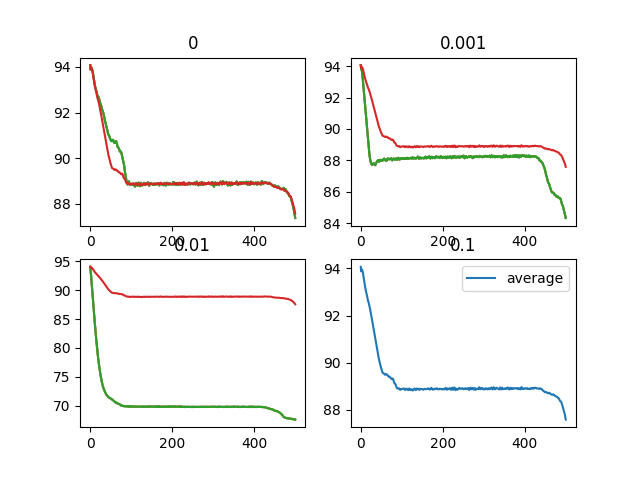
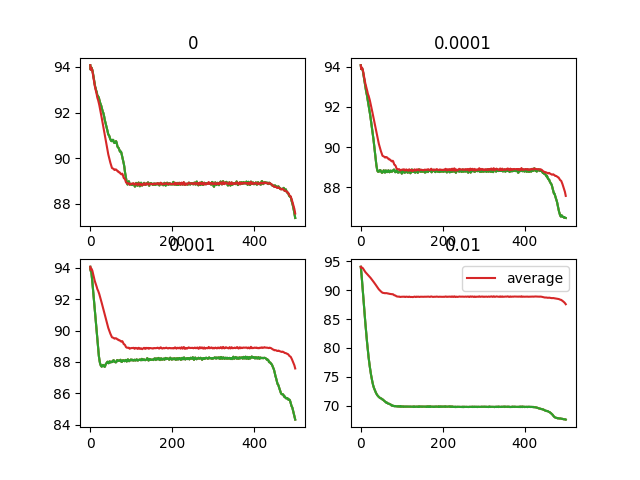
plot update

diff --git a/python/post/max_z.py b/python/post/max_z.py
@@ -2,6 +2,7 @@ import pandas as pd
 from ovito.io import *
 import re
 from ovito.modifiers import *
+import numpy
 import numpy as np
 import matplotlib.pyplot as plt
 from glob import glob
@@ -14,7 +15,7 @@ def max_z_finder(asperities, uc, temp, time, initnum):
     highz_dir = '../../txt/high_z/'
     max_zs = []
     avg_max = []
-    for force in [0, 0.001, 0.01, 0.1]:
+    for force in [0, 0.0001, 0.001, 0.01]:
         dumpfiles = f'../../simulations/sys_asp{asperities}_uc{uc}/production/sim_temp{temp}_force{force}_asp{asperities}_time{time}_initnum{initnum}_seed*_errgrid4_4/dump.bin'
         for dumpfile in glob(dumpfiles):
 
@@ -32,7 +33,7 @@ def plot_max_z(asperities, uc, temp, time, initnum):
     fig, axs = plt.subplots(2,2)
 
     axs = axs.ravel()
-    for i, force in enumerate([0, 0.001, 0.01, 0.1]):
+    for i, force in enumerate([0, 0.0001, 0.001, 0.01]):
         heights = []
         files = highz_dir + f"maxz_temp{temp}_force{force}_asp{asperities}_time{time}_initnum{initnum}_seed*.txt"
         for _file in glob(files):
@@ -51,7 +52,6 @@ def plot_max_z(asperities, uc, temp, time, initnum):
             axs[i].plot(frames, heights[0])
             
         avg_max.append(np.mean(heights, axis = 0))
-        print(frames, avg_max)
         axs[i].set_title(str(force))
         axs[i].plot(frames, avg_max[0], label = 'average')
     plt.legend()
@@ -66,5 +66,5 @@ if __name__ == '__main__':
     highz_dir = '../../txt/high_z/'
     max_zs = []
     avg_max = []
-    #max_z_finder(asperities, uc, temp, time, initnum)
+    max_z_finder(asperities, uc, temp, time, initnum)
     plot_max_z(asperities, uc, temp, time, initnum)
